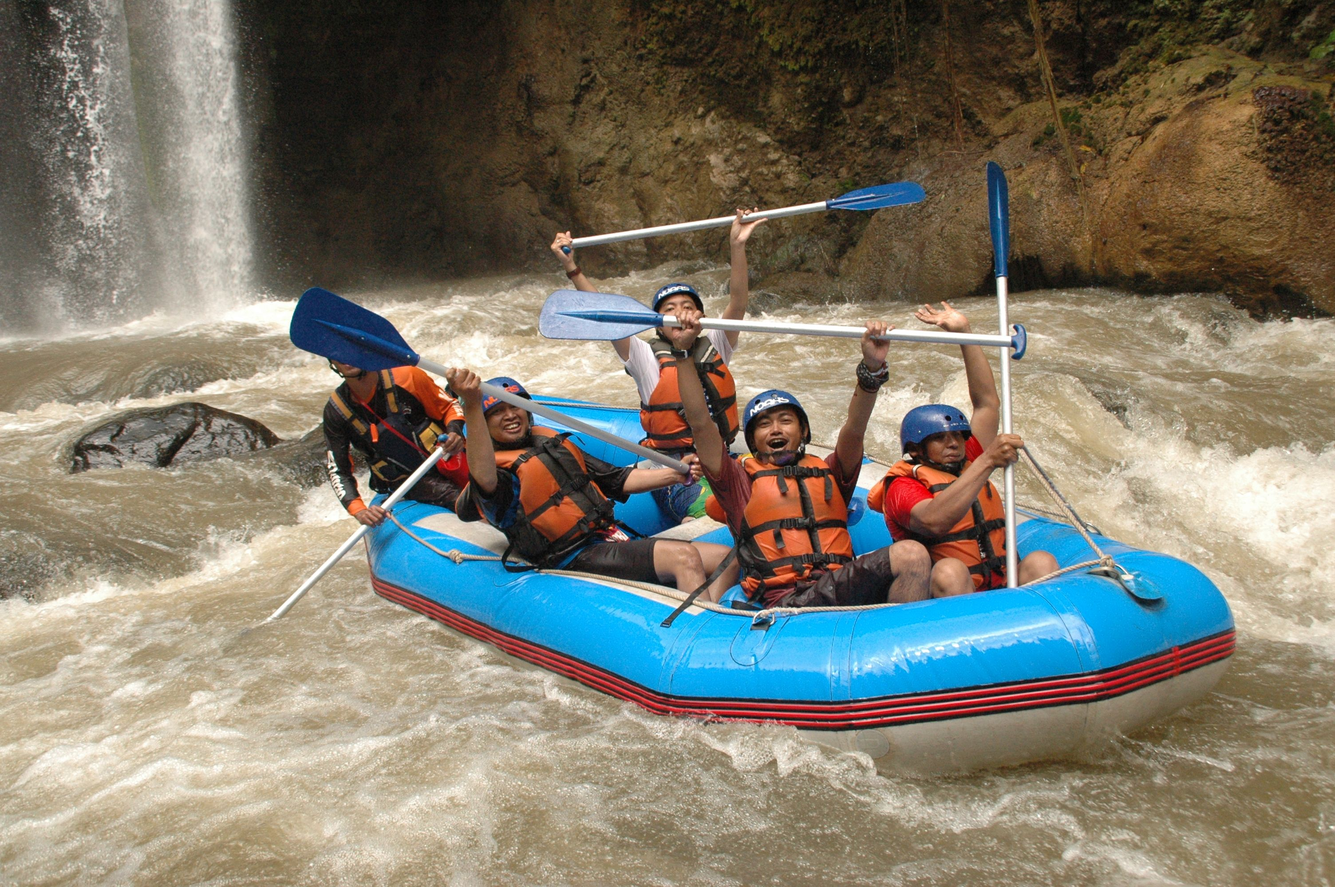
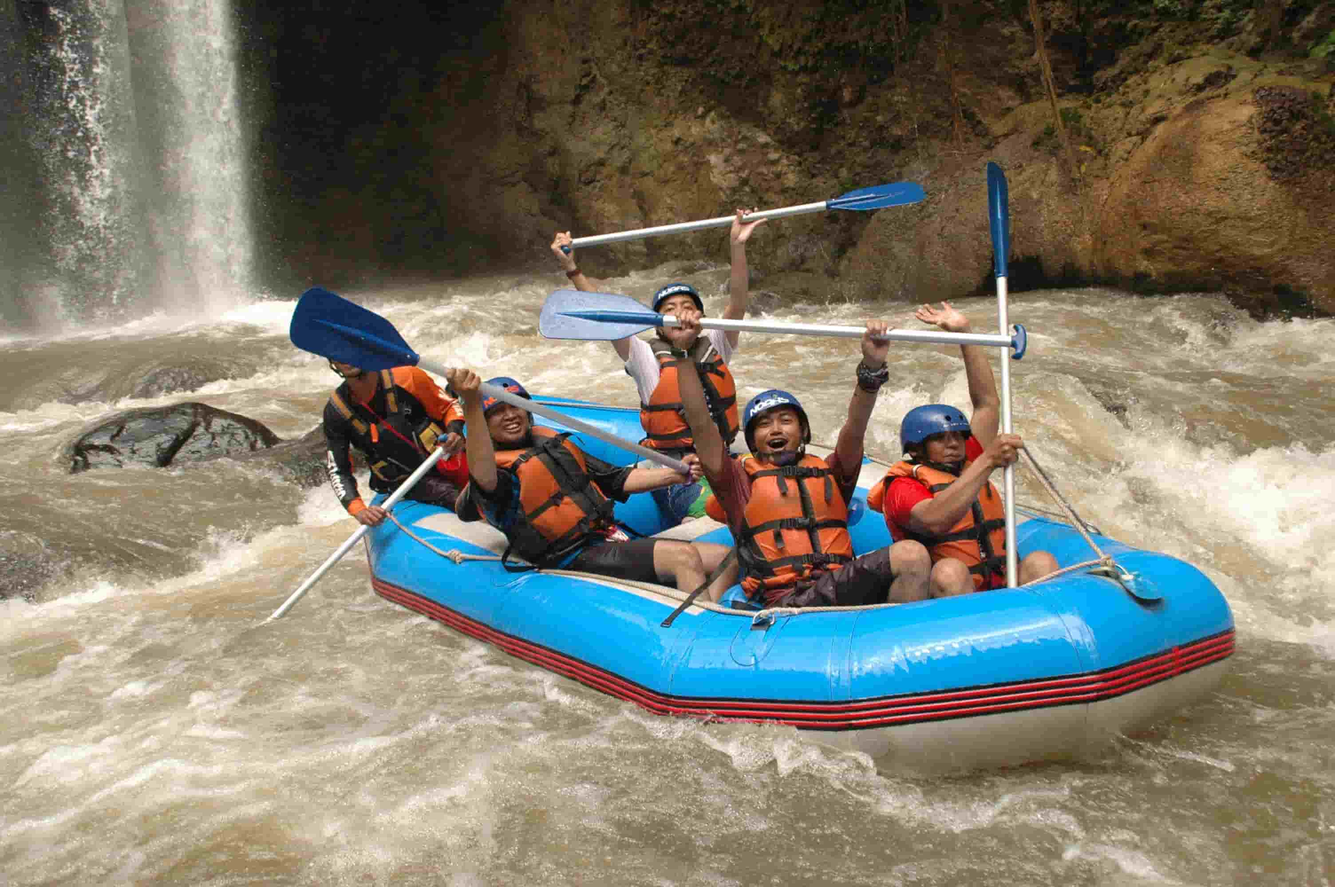
compress image, fix hero contrast, remove named color

diff --git a/wwr/styles/rafting.css b/wwr/styles/rafting.css
@@ -62,7 +62,7 @@ header nav a {
     text-decoration: none;
     font-weight: bold;
     padding: 0.4rem 0.2rem;
-    border-bottom: 3px solid transparent;
+    border-bottom: 3px solid var(--primary-color);
 }
 
 header nav a:hover,
@@ -83,13 +83,14 @@ header nav a:focus {
 
 .hero h1 {
     position: absolute;
-    top: 2rem;
+    top: 0;
     left: 0;
     width: 100%;
+    padding: 1rem;
     text-align: center;
     color: var(--white-color);
+    background-color: var(--primary-color);
     font-size: 2.5rem;
-    text-shadow: 0 2px 8px var(--black-color);
 }
 
 .hero article {
@@ -222,7 +223,7 @@ footer {
     }
 
     .hero h1 {
-        top: 1rem;
+        top: 0;
         font-size: 1.75rem;
     }
 
